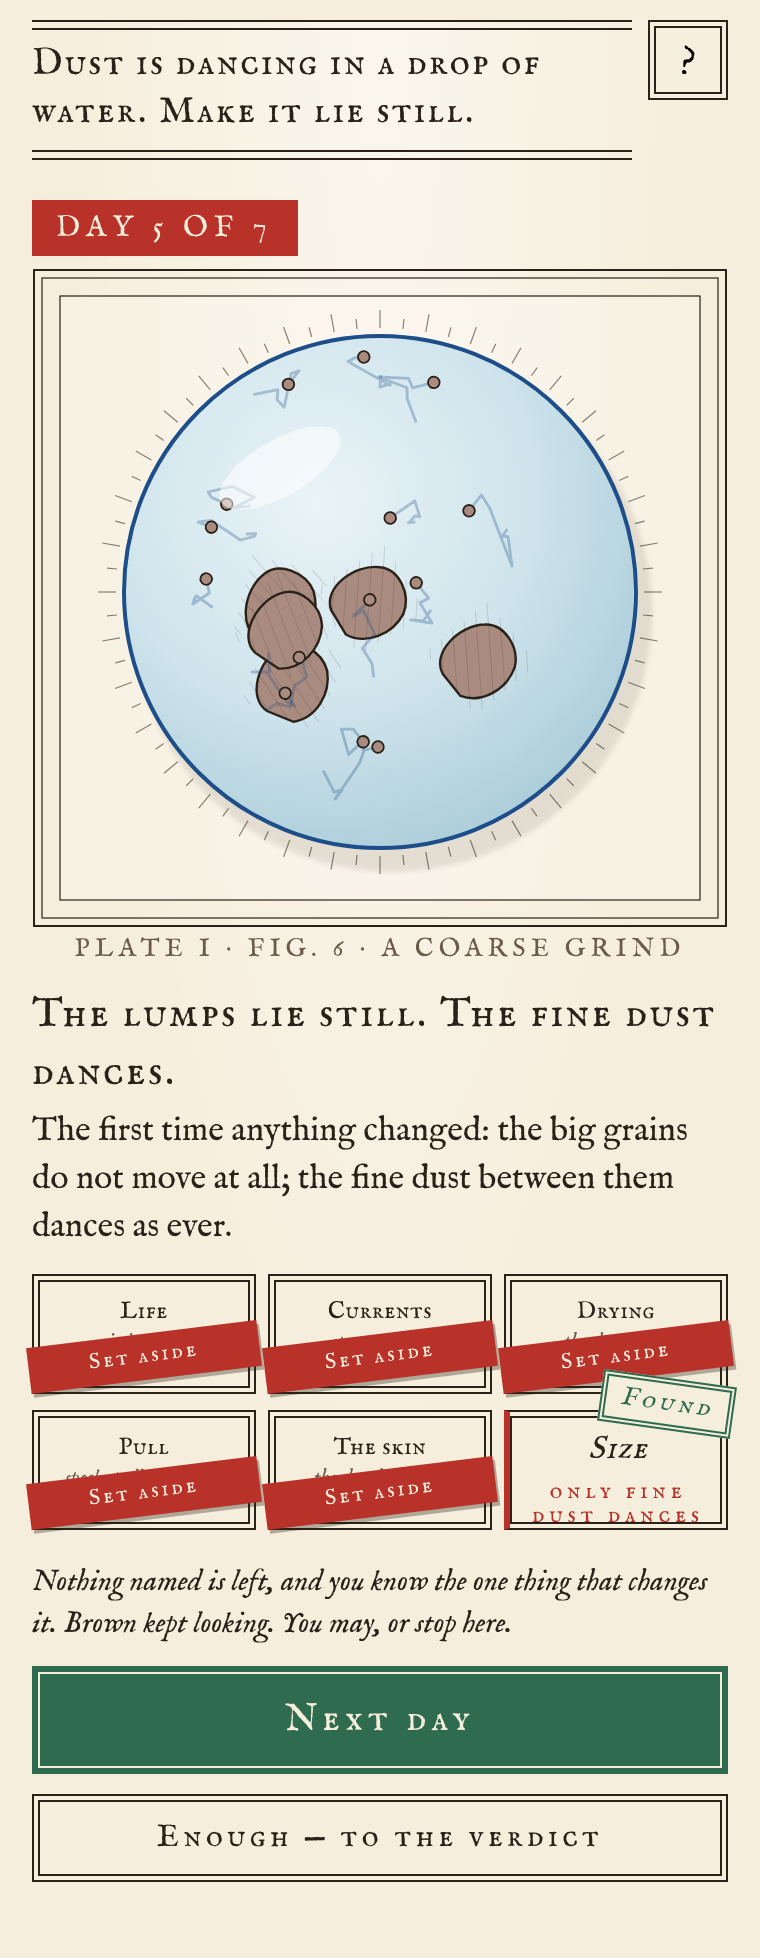
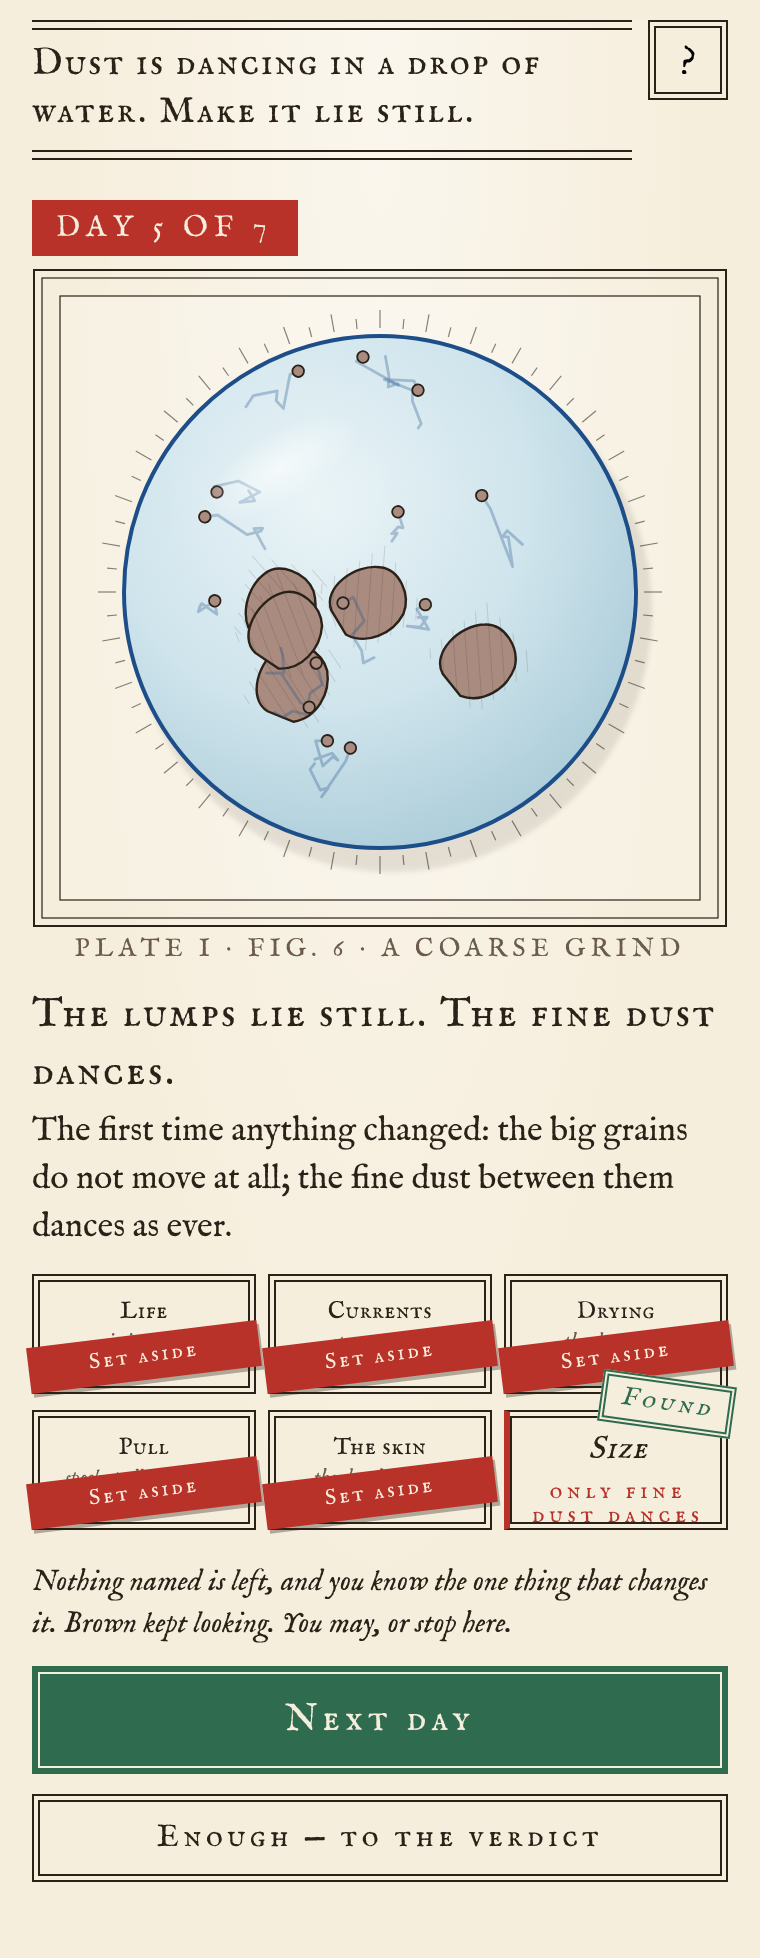
Brown's Restless Dust: the sheen on the water has no edge
The white highlight on the drop was a hard-edged ellipse, and after the sugar look (an empty drop) it read as a white lump left behind. It is now a soft radial sheen fading to nothing. Memo §22. Calibration 48/48; session test, three weeks, errors none.

Claude-Session: https://claude.ai/code/session_018niUhxcYVNKpy7XVPnUMyr

diff --git a/brown/browns-restless-dust.html b/brown/browns-restless-dust.html
@@ -480,6 +480,7 @@ ul{padding-left:20px}li{margin:4px 0}
   defs.innerHTML = `
     <radialGradient id="gw" cx="38%" cy="32%" r="75%"><stop offset="0" stop-color="#EAF4F7"/><stop offset=".55" stop-color="#CFE4EC"/><stop offset="1" stop-color="#A9CBD8"/></radialGradient>
     <radialGradient id="go" cx="45%" cy="40%" r="70%"><stop offset="0" stop-color="#F4D98A"/><stop offset="1" stop-color="#D39A2B"/></radialGradient>
+    <radialGradient id="ghi" cx="50%" cy="50%" r="50%"><stop offset="0" stop-color="#fff" stop-opacity=".7"/><stop offset=".6" stop-color="#fff" stop-opacity=".25"/><stop offset="1" stop-color="#fff" stop-opacity="0"/></radialGradient>
     <filter id="shimmer" x="-10%" y="-10%" width="120%" height="120%"><feTurbulence type="fractalNoise" baseFrequency="0.018" numOctaves="2" seed="3"><animate attributeName="baseFrequency" values="0.016;0.024;0.016" dur="9s" repeatCount="indefinite"/></feTurbulence><feDisplacementMap in="SourceGraphic" scale="6" xChannelSelector="R" yChannelSelector="G"/></filter>
     <filter id="soft" x="-20%" y="-20%" width="140%" height="140%"><feGaussianBlur stdDeviation="1.2"/></filter>
     <clipPath id="clipdrop"><circle id="clipc" cx="${CX}" cy="${CY}" r="${R}"/></clipPath>
@@ -503,7 +504,8 @@ ul{padding-left:20px}li{margin:4px 0}
   for (let i = 0; i < 18; i++) { const a = i / 18 * Math.PI * 2, p = el('path', { d: `M ${CX + Math.cos(a) * 10} ${CY + Math.sin(a) * 10} Q ${CX + Math.cos(a + .25) * 70} ${CY + Math.sin(a + .25) * 70} ${CX + Math.cos(a) * R} ${CY + Math.sin(a) * R}`, 'stroke-dasharray': '4 7' }, streams); el('animate', { attributeName: 'stroke-dashoffset', values: '0;-44', dur: '1.2s', repeatCount: 'indefinite' }, p); }
   const gSpecks = el('g', { 'clip-path': 'url(#clipdrop)' }, gDrop);
   const dropRim = el('circle', { cx: CX, cy: CY, r: R, fill: 'none', stroke: '#1D4E89', 'stroke-width': 2 }, gDrop);
-  const dropHi = el('ellipse', { cx: CX - 50, cy: CY - 62, rx: 34, ry: 14, fill: '#fff', opacity: .55, transform: `rotate(-30 ${CX - 50} ${CY - 62})` }, gDrop);
+  // the sheen on the water: a soft gradient with no edge, so it cannot be read as something in the drop
+  const dropHi = el('ellipse', { cx: CX - 50, cy: CY - 62, rx: 44, ry: 18, fill: 'url(#ghi)', opacity: .9, transform: `rotate(-30 ${CX - 50} ${CY - 62})` }, gDrop);
   const gBeads = el('g', {}, gDrop);
   // the clock
   const gClock = el('g', { opacity: 0 }, svg);
@@ -571,7 +573,7 @@ ul{padding-left:20px}li{margin:4px 0}
     [dropBody, dropRim].forEach(c => { c.setAttribute('r', Math.max(0, rad)); c.setAttribute('opacity', st.water ? 1 : 0); });
     document.getElementById('clipc').setAttribute('r', Math.max(0, rad));
     gEngrave.setAttribute('transform', `translate(${CX} ${CY}) scale(${st.radius}) translate(${-CX} ${-CY})`); gEngrave.setAttribute('opacity', st.water ? 1 : 0);
-    dropHi.setAttribute('opacity', st.water ? .55 * st.radius : 0); dropHi.setAttribute('transform', `translate(${CX} ${CY}) scale(${st.radius}) translate(${-CX} ${-CY}) rotate(-30 ${CX - 50} ${CY - 62})`);
+    dropHi.setAttribute('opacity', st.water ? .9 * st.radius : 0); dropHi.setAttribute('transform', `translate(${CX} ${CY}) scale(${st.radius}) translate(${-CX} ${-CY}) rotate(-30 ${CX - 50} ${CY - 62})`);
     streams.setAttribute('opacity', st.current > 0 ? Math.min(1, st.current / C.CURRENT_MAX * 1.4) : 0);
     if (isFinite(st.life)) { const frac = Math.min(1, st.t / st.life); hand.setAttribute('transform', `rotate(${frac * 360} ${W - 54} 44)`); }
     drawSpecks(st, rad);

diff --git a/brown/template.html b/brown/template.html
@@ -194,6 +194,7 @@ ul{padding-left:20px}li{margin:4px 0}
   defs.innerHTML = `
     <radialGradient id="gw" cx="38%" cy="32%" r="75%"><stop offset="0" stop-color="#EAF4F7"/><stop offset=".55" stop-color="#CFE4EC"/><stop offset="1" stop-color="#A9CBD8"/></radialGradient>
     <radialGradient id="go" cx="45%" cy="40%" r="70%"><stop offset="0" stop-color="#F4D98A"/><stop offset="1" stop-color="#D39A2B"/></radialGradient>
+    <radialGradient id="ghi" cx="50%" cy="50%" r="50%"><stop offset="0" stop-color="#fff" stop-opacity=".7"/><stop offset=".6" stop-color="#fff" stop-opacity=".25"/><stop offset="1" stop-color="#fff" stop-opacity="0"/></radialGradient>
     <filter id="shimmer" x="-10%" y="-10%" width="120%" height="120%"><feTurbulence type="fractalNoise" baseFrequency="0.018" numOctaves="2" seed="3"><animate attributeName="baseFrequency" values="0.016;0.024;0.016" dur="9s" repeatCount="indefinite"/></feTurbulence><feDisplacementMap in="SourceGraphic" scale="6" xChannelSelector="R" yChannelSelector="G"/></filter>
     <filter id="soft" x="-20%" y="-20%" width="140%" height="140%"><feGaussianBlur stdDeviation="1.2"/></filter>
     <clipPath id="clipdrop"><circle id="clipc" cx="${CX}" cy="${CY}" r="${R}"/></clipPath>
@@ -217,7 +218,8 @@ ul{padding-left:20px}li{margin:4px 0}
   for (let i = 0; i < 18; i++) { const a = i / 18 * Math.PI * 2, p = el('path', { d: `M ${CX + Math.cos(a) * 10} ${CY + Math.sin(a) * 10} Q ${CX + Math.cos(a + .25) * 70} ${CY + Math.sin(a + .25) * 70} ${CX + Math.cos(a) * R} ${CY + Math.sin(a) * R}`, 'stroke-dasharray': '4 7' }, streams); el('animate', { attributeName: 'stroke-dashoffset', values: '0;-44', dur: '1.2s', repeatCount: 'indefinite' }, p); }
   const gSpecks = el('g', { 'clip-path': 'url(#clipdrop)' }, gDrop);
   const dropRim = el('circle', { cx: CX, cy: CY, r: R, fill: 'none', stroke: '#1D4E89', 'stroke-width': 2 }, gDrop);
-  const dropHi = el('ellipse', { cx: CX - 50, cy: CY - 62, rx: 34, ry: 14, fill: '#fff', opacity: .55, transform: `rotate(-30 ${CX - 50} ${CY - 62})` }, gDrop);
+  // the sheen on the water: a soft gradient with no edge, so it cannot be read as something in the drop
+  const dropHi = el('ellipse', { cx: CX - 50, cy: CY - 62, rx: 44, ry: 18, fill: 'url(#ghi)', opacity: .9, transform: `rotate(-30 ${CX - 50} ${CY - 62})` }, gDrop);
   const gBeads = el('g', {}, gDrop);
   // the clock
   const gClock = el('g', { opacity: 0 }, svg);
@@ -285,7 +287,7 @@ ul{padding-left:20px}li{margin:4px 0}
     [dropBody, dropRim].forEach(c => { c.setAttribute('r', Math.max(0, rad)); c.setAttribute('opacity', st.water ? 1 : 0); });
     document.getElementById('clipc').setAttribute('r', Math.max(0, rad));
     gEngrave.setAttribute('transform', `translate(${CX} ${CY}) scale(${st.radius}) translate(${-CX} ${-CY})`); gEngrave.setAttribute('opacity', st.water ? 1 : 0);
-    dropHi.setAttribute('opacity', st.water ? .55 * st.radius : 0); dropHi.setAttribute('transform', `translate(${CX} ${CY}) scale(${st.radius}) translate(${-CX} ${-CY}) rotate(-30 ${CX - 50} ${CY - 62})`);
+    dropHi.setAttribute('opacity', st.water ? .9 * st.radius : 0); dropHi.setAttribute('transform', `translate(${CX} ${CY}) scale(${st.radius}) translate(${-CX} ${-CY}) rotate(-30 ${CX - 50} ${CY - 62})`);
     streams.setAttribute('opacity', st.current > 0 ? Math.min(1, st.current / C.CURRENT_MAX * 1.4) : 0);
     if (isFinite(st.life)) { const frac = Math.min(1, st.t / st.life); hand.setAttribute('transform', `rotate(${frac * 360} ${W - 54} 44)`); }
     drawSpecks(st, rad);

diff --git a/brown/memo.md b/brown/memo.md
@@ -176,3 +176,7 @@ One change, after Steffen's note that the lone speck should be discovered, not u
 5. **Help.** The bench has thirteen labels; "One look adds a fourteenth." The list of examples no longer names the one-speck drop.
 
 **Checks.** `node calibration.js`: 48 passed, 0 failed (G1 kept; G2 a fresh bench lists thirteen and never the lone speck, fourteen after the oil; G2b only the oil look announces anything; G2c the new mark is on the day after the oil only; G2d the verdict knows whether a drop was sealed). `session-test.js`, three weeks at 380 px, no errors, no horizontal scroll: week A checks the lone speck is absent on days 1–2, the note shows after the oil look and still while day 3's bench is open, the label is marked new on day 3 only; week B never seals a drop, has thirteen labels on every day, and its verdict says the one-speck drop was never found; week C unchanged. Screenshots `a-oil-new-look`, `a-day3-bench-new`; `locked-flash` removed.
+
+## 22. Revision 3
+
+Steffen, after playing: once sugar had gone in, "the sugar remains in all the other animations as a large white fleck". The fleck was the highlight on the water, a hard-edged white ellipse at the drop's upper left, there since day 0; a drop with nothing in it made it the only thing in the water, and from then on it read as a lump. The highlight is now a soft radial sheen with no edge (gradient `ghi`, white fading to nothing), so there is nothing in the drop that could be taken for a speck. No other change. Calibration 48/48; session test three weeks, errors none.
